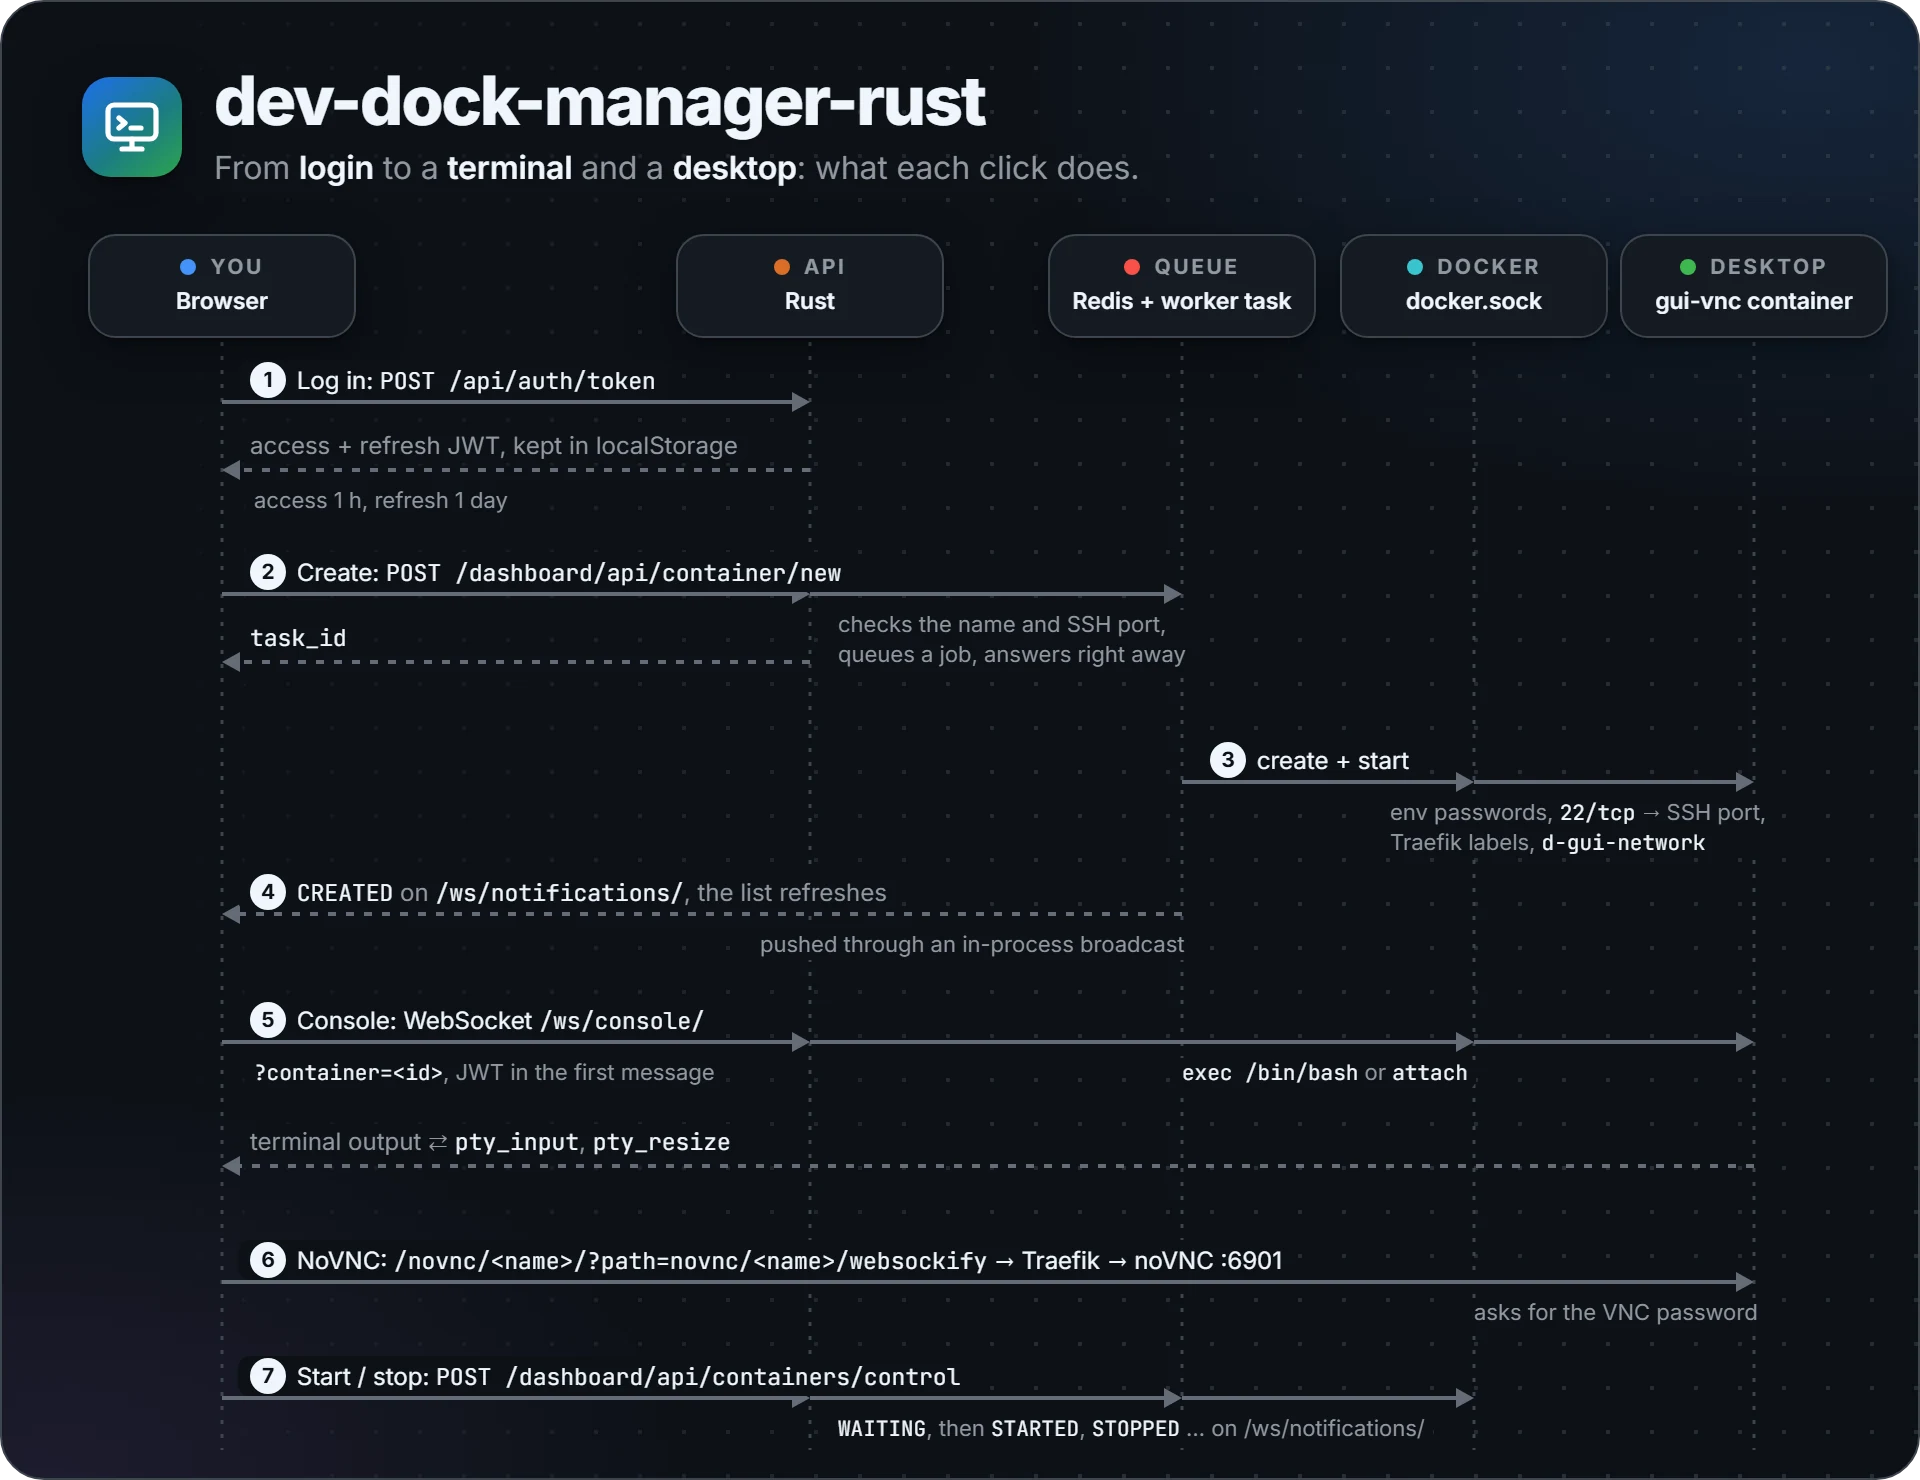
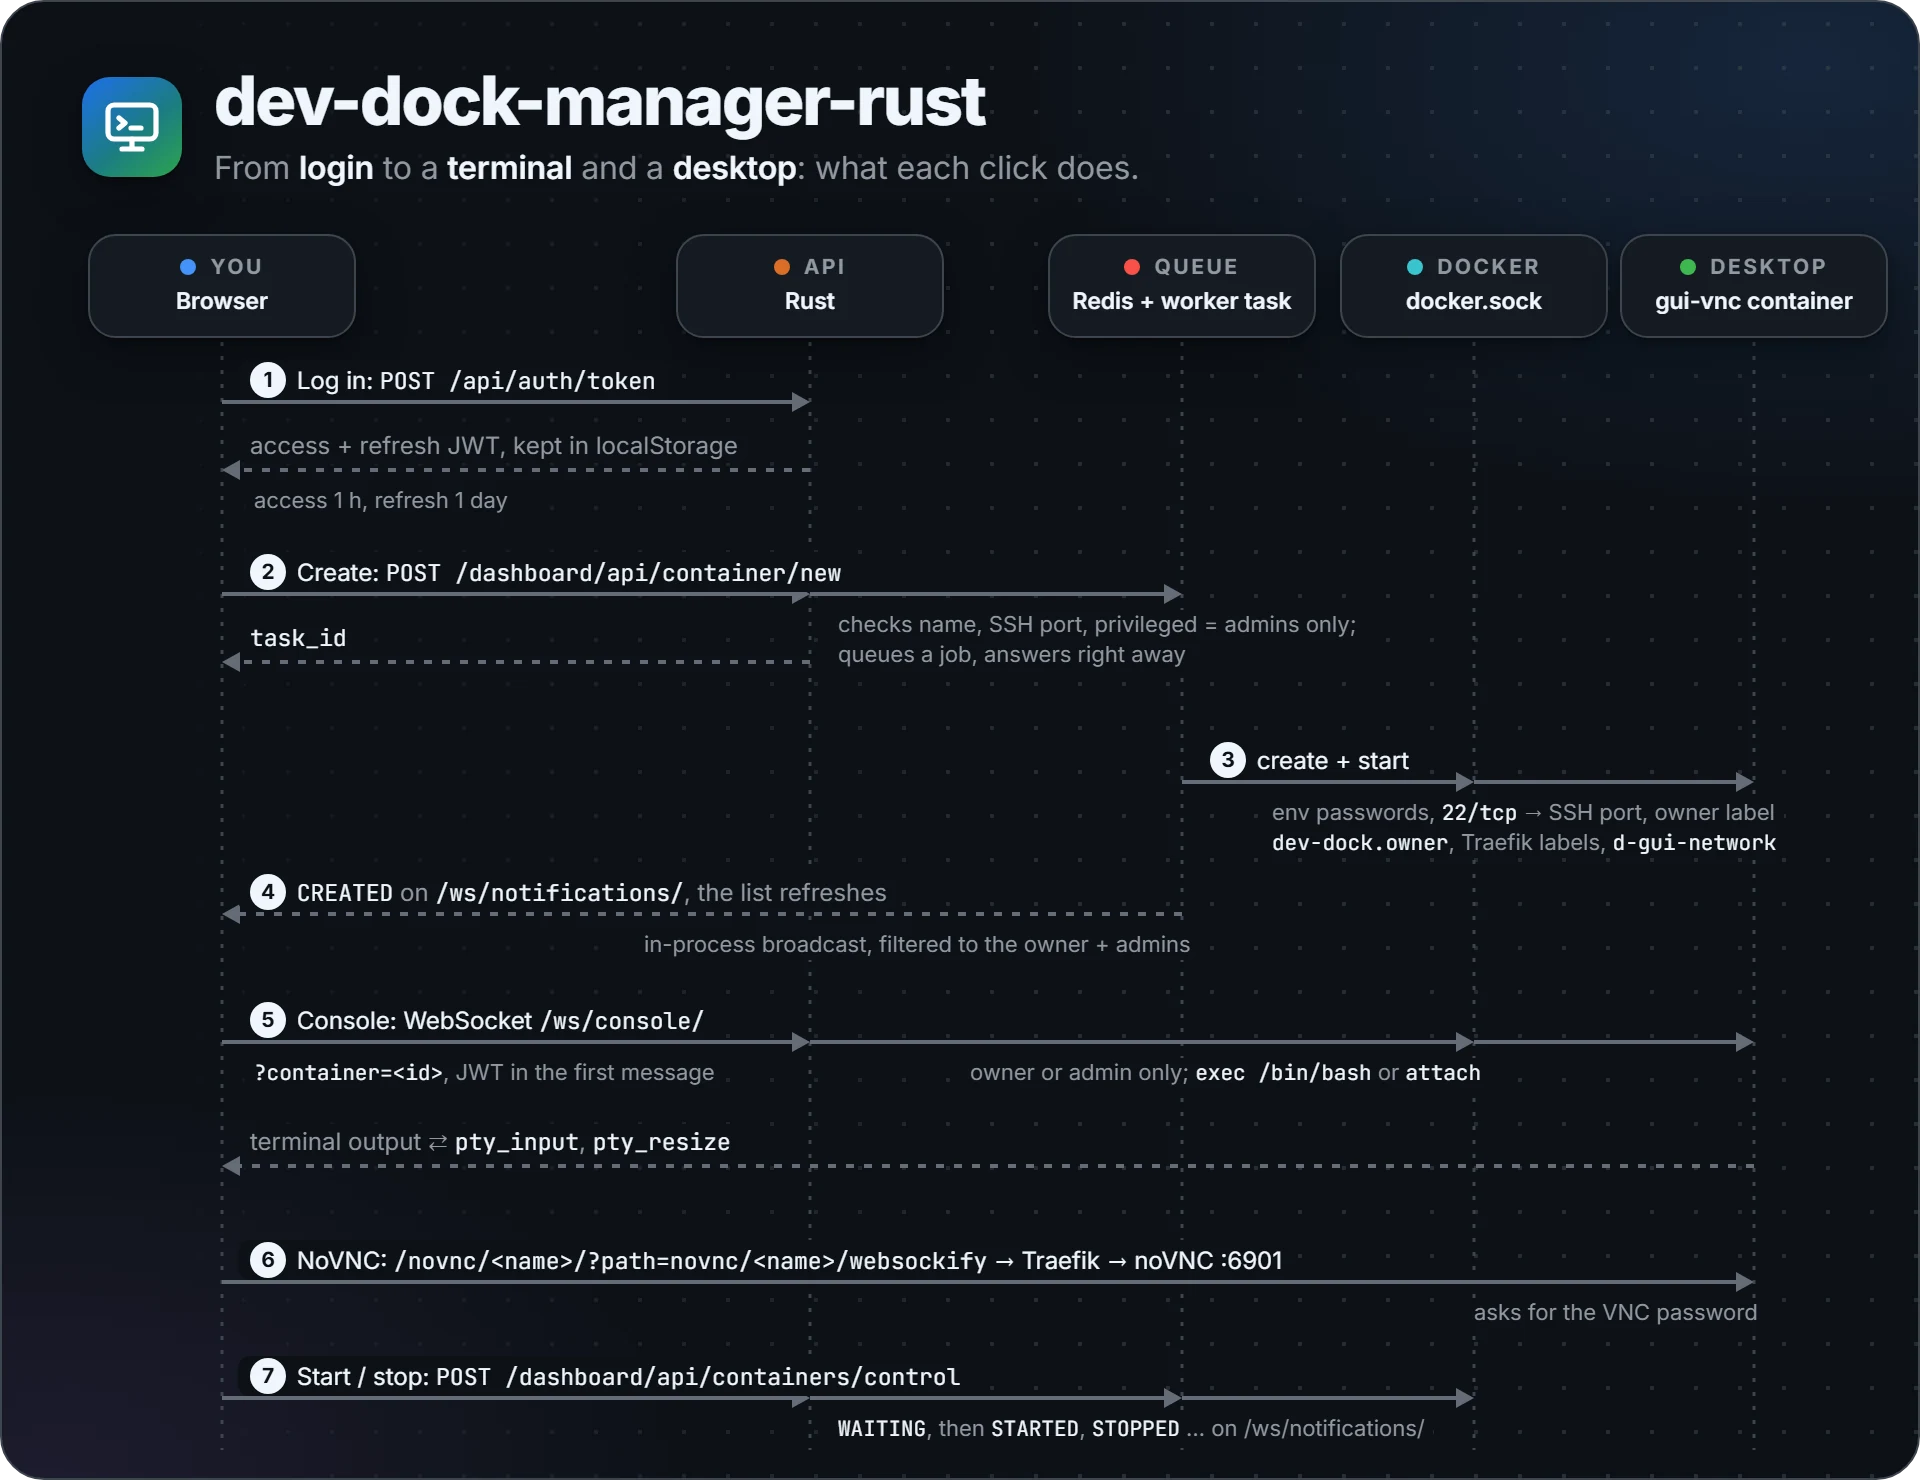
docs: recommend this manager, with measured differences to the Django one
The user decided the Rust manager is the one to recommend. The README
now says so and backs it with numbers measured side by side on the same
machine (backend image size, idle memory, start-up time, response times
of the main endpoints), with the method spelled out and the limits
stated (not a load test; the list endpoints depend on the Docker host).

The diagrams follow the new behaviour: the family overview marks this
repo as recommended, the architecture shows the owner label on each
desktop, and the lifecycle shows the admin-only privileged check, the
owner label, owner-or-admin console access and notifications that only
reach the owner and admins. The steps under the diagram say the same.

diff --git a/docs/images/src/manager-lifecycle.html b/docs/images/src/manager-lifecycle.html
@@ -66,14 +66,14 @@
       api: ['API', 'c-green', 'Django'], worker: ['Queue', 'c-red', 'Redis + rqworker'],
       tokens: 'access 60 h, refresh 1 day',
       ws: 'subprotocols <code>token.&lt;base64 JWT&gt;</code>, <code>container.&lt;id&gt;</code>',
-      notify: 'pushed through a Channels group in Redis',
+      notify: 'Channels group of the owner + the admins group',
     },
     rust: {
       name: 'dev-dock-manager-rust',
       api: ['API', 'c-orange', 'Rust'], worker: ['Queue', 'c-red', 'Redis + worker task'],
       tokens: 'access 1 h, refresh 1 day',
       ws: '<code>?container=&lt;id&gt;</code>, JWT in the first message',
-      notify: 'pushed through an in-process broadcast',
+      notify: 'in-process broadcast, filtered to the owner + admins',
     },
   }[V];
   document.getElementById('name').textContent = T.name;
@@ -106,11 +106,11 @@
   ];
   const notes = [
     [X.B + 12, 242, T.tokens, 'start'],
-    [X.A + 10, 304, 'checks the name and SSH port,<br>queues a job, answers right away', 'start'],
-    [X.C - 6, 398, 'env passwords, <code>22/tcp</code> → SSH port,<br>Traefik labels, <code>d-gui-network</code>', 'end'],
+    [X.A + 10, 304, 'checks name, SSH port, privileged = admins only;<br>queues a job, answers right away', 'start'],
+    [X.C - 6, 398, 'env passwords, <code>22/tcp</code> → SSH port, owner label<br><code>dev-dock.owner</code>, Traefik labels, <code>d-gui-network</code>', 'end'],
     [X.W - 10, 464, T.notify, 'end'],
     [X.B + 12, 528, T.ws, 'start'],
-    [X.D - 10, 528, '<code>exec /bin/bash</code> or <code>attach</code>', 'end'],
+    [X.D - 10, 528, 'owner or admin only; <code>exec /bin/bash</code> or <code>attach</code>', 'end'],
     [X.C - 6, 648, 'asks for the VNC password', 'end'],
     [X.A + 10, 706, '<code>WAITING</code>, then <code>STARTED</code>, <code>STOPPED</code> … on /ws/notifications/', 'start'],
   ];

diff --git a/docs/images/src/family.html b/docs/images/src/family.html
@@ -86,19 +86,19 @@
   </div>
 
   <div class="node repo" id="django">
-    <div class="label c-green"><i></i>Manager <span class="type">Python</span></div>
+    <div class="label c-green"><i></i>Older manager <span class="type">Python</span></div>
     <div class="title">dev-dock-manager</div>
     <div class="sub">Django REST + Channels API, RQ worker, Redis, SQLite.</div>
     <div class="chips"><span class="chip">Traefik :8000</span><span class="chip">Next.js</span></div>
-    <div class="sub">Login, create, web terminal, NoVNC</div>
+    <div class="sub">Same dashboard, more moving parts</div>
   </div>
 
   <div class="node repo" id="rust">
-    <div class="label c-orange"><i></i>Manager <span class="type">Rust</span></div>
+    <div class="label c-orange"><i></i>Recommended <span class="type">Rust</span></div>
     <div class="title">dev-dock-manager-rust</div>
     <div class="sub">The same manager with a Rust API (axum + bollard), Redis, SQLite.</div>
     <div class="chips"><span class="chip">Traefik :8000</span><span class="chip">Next.js</span></div>
-    <div class="sub">Same dashboard, same routes</div>
+    <div class="sub">Login, own desktops, terminal, NoVNC</div>
   </div>
 
   <div class="node ghost" id="host">

diff --git a/docs/images/src/manager-architecture.html b/docs/images/src/manager-architecture.html
@@ -117,7 +117,7 @@
   <div class="node" id="desktops">
     <div class="label c-green"><i></i>Desktops <span class="type">gui-vnc</span></div>
     <div class="title sm">One container per name</div>
-    <div class="sub">noVNC on <b>:6901</b> behind Traefik, VNC on :5901 inside, SSH <b>:22</b> → the host port you picked</div>
+    <div class="sub">noVNC <b>:6901</b> via Traefik, SSH <b>:22</b> on a host port, owner label <code>dev-dock.owner</code></div>
   </div>
 
   <div class="node sm" id="redis">

diff --git a/README.md b/README.md
@@ -28,17 +28,50 @@ version has a Rust API (axum + bollard) and a Next.js frontend, all behind Traef
 | Repo | What it is |
 |---|---|
 | [dev-dock](https://github.com/NatLee/dev-dock) | The `gui-vnc` image: Xfce desktop, VNC, noVNC and SSH in one container. Included here as `gui/`. |
-| [dev-dock-manager](https://github.com/NatLee/dev-dock-manager) | The original manager, with a Django (Python) API. |
-| **dev-dock-manager-rust** (this repo) | The same dashboard, routes and container setup, with the API rewritten in Rust. |
+| **dev-dock-manager-rust** (this repo) | **The recommended manager.** Dashboard + Rust API. |
+| [dev-dock-manager](https://github.com/NatLee/dev-dock-manager) | The older version of the same dashboard, with a Django (Python) API. |
 
-The two managers look the same from the browser and start the same containers, so pick one per machine.
-What differs is the backend:
+## Why this one
+
+Both managers have the same dashboard, the same routes, the same permission rules and the same account
+pages, and start the same containers. Pick one per machine. This one is the recommended choice: one small
+binary instead of Django + Daphne + an RQ worker under supervisord. In the measurements below it uses
+about a fiftieth of the memory, starts in about half a second instead of eight, and answers the dashboard's
+calls 2 to 15 times faster.
+
+| Measured (median) | dev-dock-manager-rust | dev-dock-manager (Django) |
+|---|---|---|
+| Backend image size | **144 MB** | 687 MB |
+| Backend memory when idle | **5.0 MiB** | 256 MiB |
+| Start-up (`docker start` → API answers) | **0.58 s** | 8.3 s |
+| Log in (`POST /api/auth/token`) | **18 ms** | 129 ms |
+| Who am I (`GET /dashboard/api/me`) | **3.0 ms** | 13.8 ms |
+| Container list (`GET /dashboard/api/containers`) | **478 ms** | 3,185 ms |
+| Image list (`GET /dashboard/api/images`) | **324 ms** | 4,973 ms |
+| Terminal metadata (`GET /dashboard/api/console/shell/<id>`) | **14 ms** | 27 ms |
+
+How it was measured (2026-11-04):
+- **Setup.** Both stacks were built from `main` and run one after the other on the same machine: 32 cores,
+  32 GB RAM, Docker Desktop 29.8.1 on x86_64, Traefik v3.7, Redis, one running desktop. The repo's own
+  compose file was used, with only names and ports changed.
+- **Image size** is what `docker image inspect` reports for the backend image. Both frontend images are the
+  same Next.js build, 295 MB each.
+- **Memory** is the backend container in `docker stats`, after a minute with no requests (3 readings).
+- **Start-up** is 5 runs of `docker stop` then `docker start` on the backend container, timed until
+  `/api/auth/token` answered through Traefik.
+- **Response times** come from 30 sequential requests per endpoint through Traefik, after 3 warm-up
+  requests, all with status 200.
+- **What it doesn't cover:** this is not a load test. The list endpoints depend on how much else runs on the
+  Docker host (this one had about 90 unrelated images). Django is slower there mostly because docker-py
+  inspects every image one by one and the container list also asks Docker for disk usage. Log-in time is
+  mostly password hashing (Argon2 here, Django's PBKDF2 there).
+
+Other differences:
 
 | | dev-dock-manager-rust | dev-dock-manager |
 |---|---|---|
-| API | one Rust binary (axum, bollard) | Django + Daphne, run by supervisord |
 | Background jobs | a worker task inside the API process, Redis list as the queue | a separate `rqworker` process (RQ) |
-| Users | `users` table in SQLite, Argon2 password hashes | Django users in SQLite |
+| Users | `users` table in SQLite, Argon2 password hashes | Django's users in SQLite |
 | Login tokens | access 1 hour, refresh 1 day | access 60 hours, refresh 1 day |
 | Extras | `/health` | Django admin and Swagger pages |
 
@@ -75,12 +108,13 @@ What each click does:
 1. **Log in.** The dashboard posts your username and password to `/api/auth/token` and keeps the access and
    refresh tokens (JWT) in the browser's localStorage. Every API call sends the access token.
 2. **Create.** The API checks the name (two characters or more, starting with a letter) and that the SSH port
-   is free, puts a job on the Redis queue and answers with a `task_id` right away.
+   is free, puts a job on the Redis queue and answers with a `task_id` right away. Only admins may tick "privileged".
 3. **The worker starts the container** from `gui-vnc`: your passwords as environment variables, port 22 on
    the SSH port you picked, `/etc/localtime` mounted read-only, the Traefik labels for `/novnc/<name>/`, and
-   optionally privileged mode or all NVIDIA GPUs.
-4. **The list refreshes** when `CREATED` arrives on the `/ws/notifications/` WebSocket.
-5. **Console** opens a WebSocket to `/ws/console/?container=<id>`, sends the token in the first message and
+   optionally privileged mode or all NVIDIA GPUs, plus the `dev-dock.owner` label with your user id.
+4. **The list refreshes** when `CREATED` arrives on the `/ws/notifications/` WebSocket. Notifications only go
+   to the desktop's owner and to admins.
+5. **Console** (your own desktops only; admins: any) opens a WebSocket to `/ws/console/?container=<id>`, sends the token in the first message and
    gets a `bash` started with `docker exec` (a root shell). **Attach** connects to the container's main
    process instead. Keys and window size go up as `pty_input` and `pty_resize`.
 6. **NoVNC** opens `/novnc/<name>/` through Traefik and asks for the VNC password you set when creating it.
